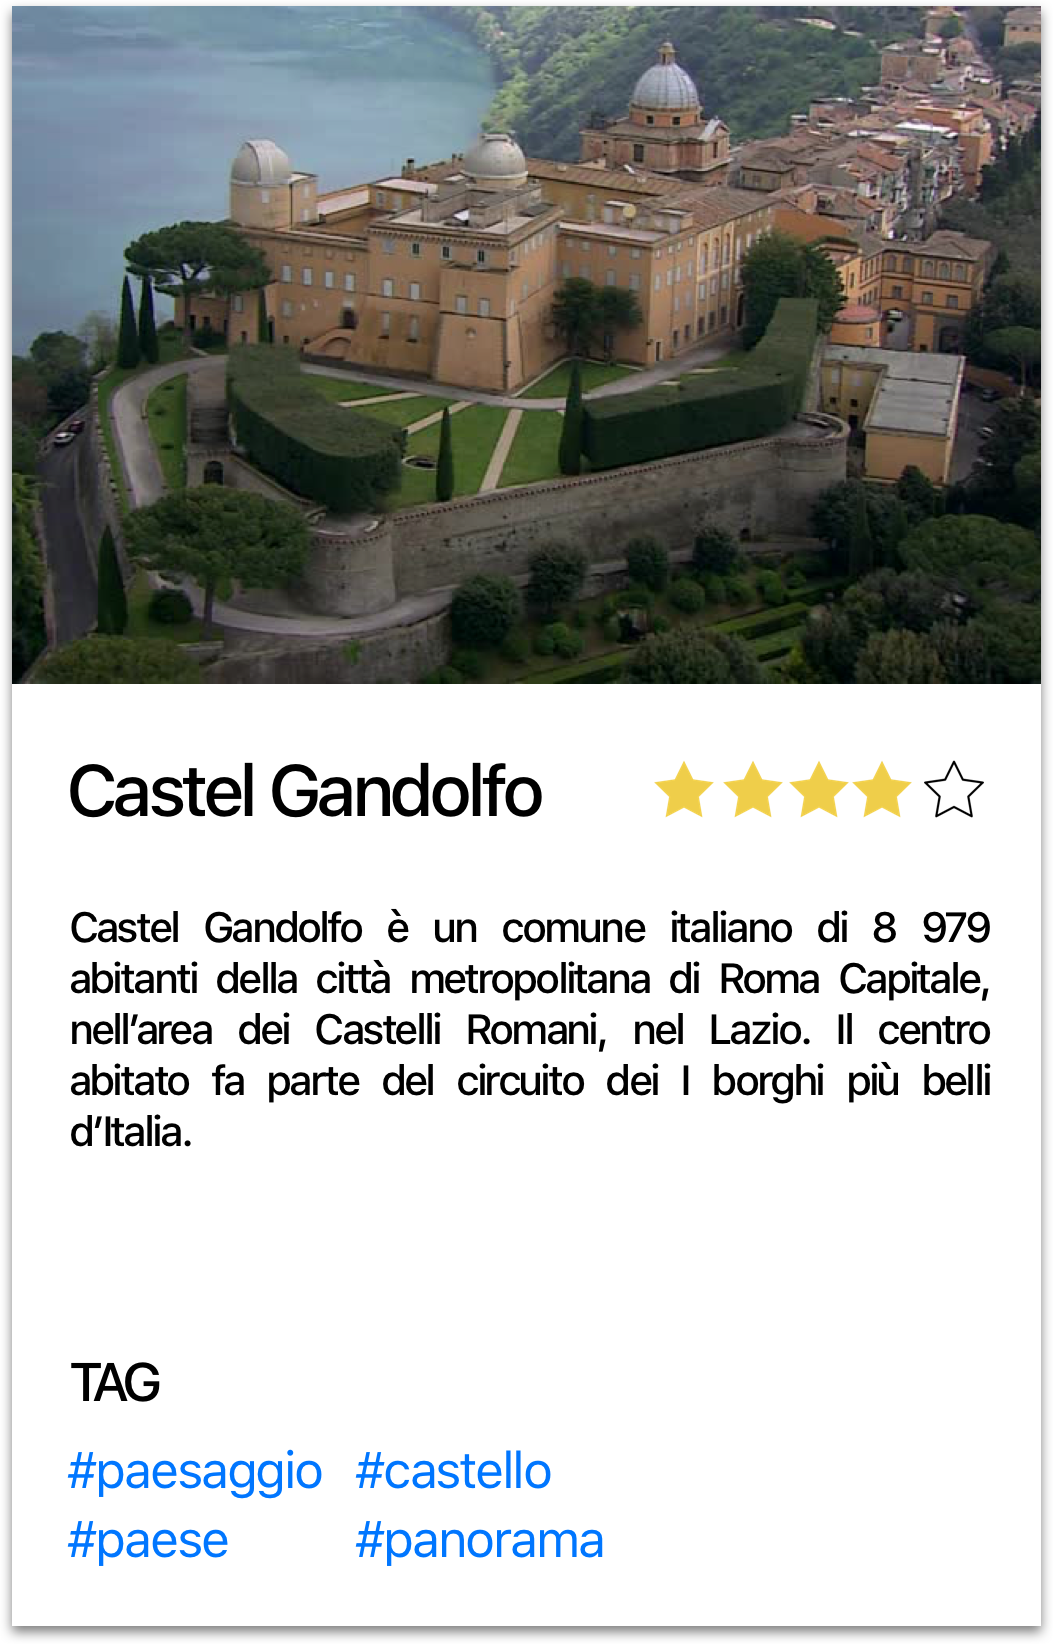
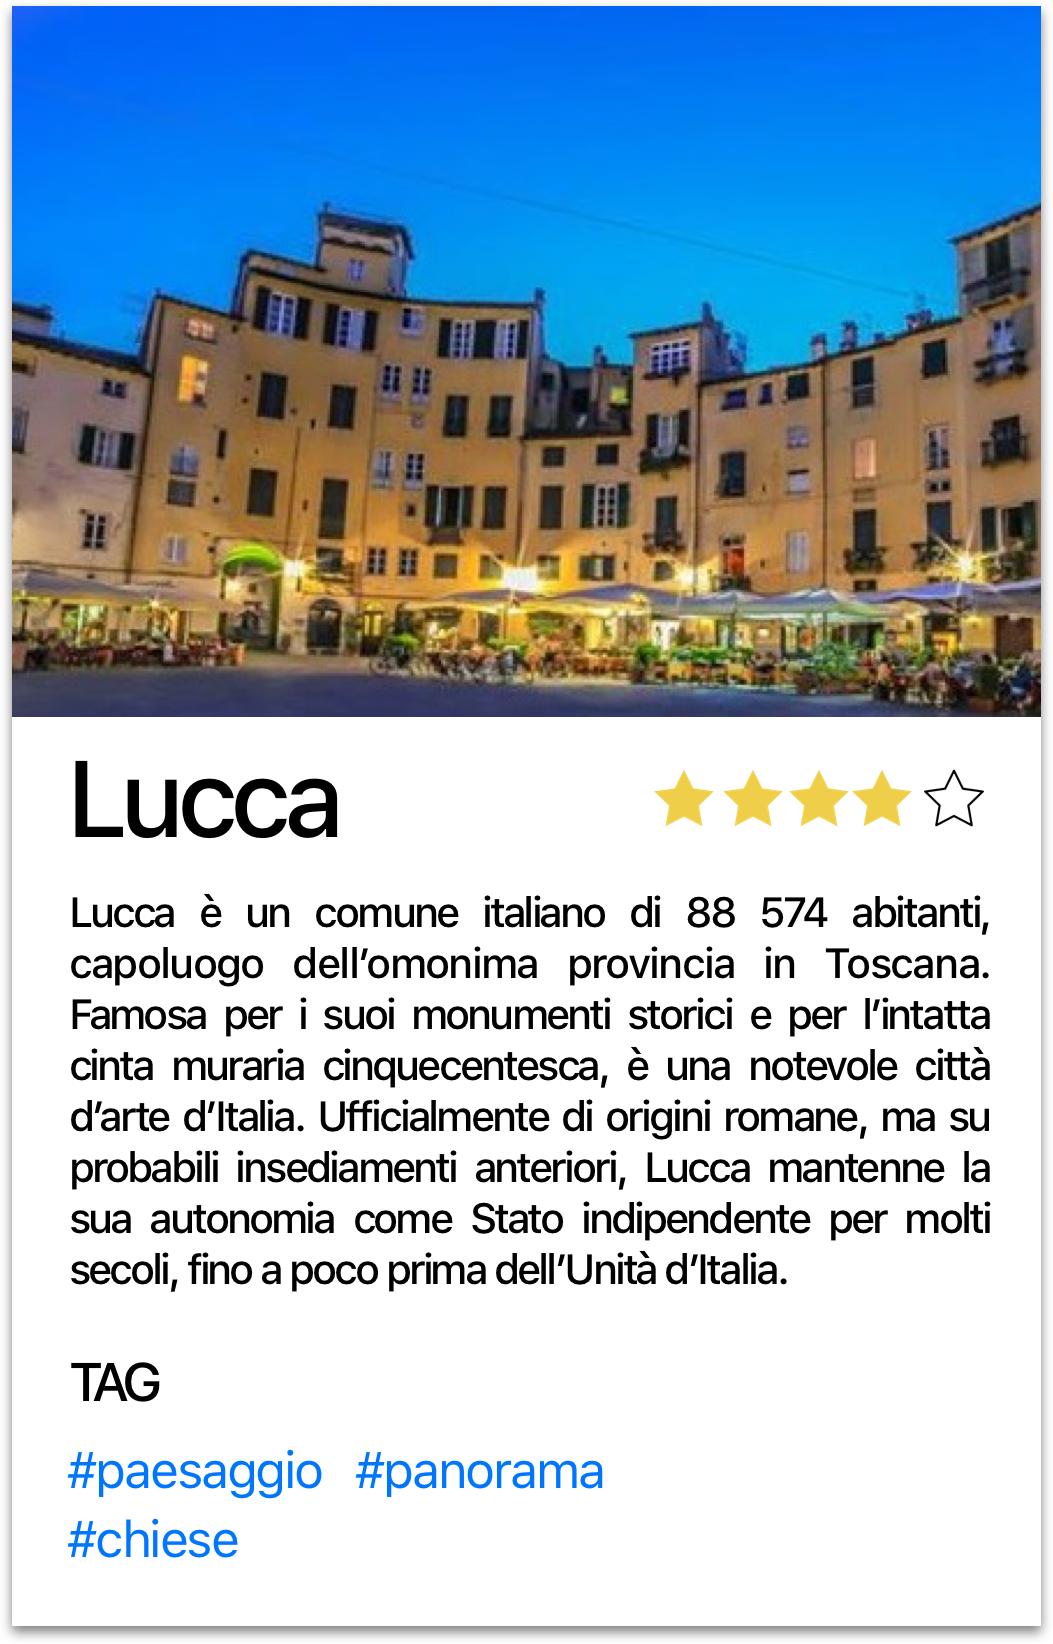
adds pages

diff --git a/HackBiz/ExploreViewController.swift b/HackBiz/ExploreViewController.swift
@@ -9,32 +9,32 @@ class ExploreViewController: UIViewController{
     @IBOutlet weak var kolodaView: KolodaView!
 
     var dataSource: [Place] = {
-        var names = ["Bassiano",
-                     "Castel Gandolfo",
-                     "Fondi",
-                     "Formia",
-                     "Giulianello",
-                     "Itri",
-                     "Nemi",
-                     "Priverno"]
+        var names = ["Seravezza",
+                     "Lucca",
+                     "Castel San Giovanni",
+                     "Siena",
+                     "Grotte di Castro",
+                     "Bassano Romano",
+                     "Anguillara Sabazia",
+                     "Novara"]
 
-        var descriptions = ["BassianoBassianoBassianoBassiano",
-                     "Castel Gandolfo",
-                     "Fondi",
-                     "Formia",
-                     "Giulianello",
-                     "Itri",
-                     "Nemi",
-                     "Priverno"]
+        var descriptions = ["",
+                     "",
+                     "",
+                     "",
+                     "",
+                     "",
+                     "",
+                     ""]
 
-        var links = ["https://it.wikipedia.org/wiki/Bassiano",
-                     "https://it.wikipedia.org/wiki/Castel_Gandolfo",
-                     "https://it.wikipedia.org/wiki/Fondi",
-                     "https://it.wikipedia.org/wiki/Formia",
-                     "https://it.wikipedia.org/wiki/Giulianello",
-                     "https://it.wikipedia.org/wiki/Itri",
-                     "https://it.wikipedia.org/wiki/Nemi",
-                     "https://it.wikipedia.org/wiki/Priverno"]
+        var links = ["https://it.wikipedia.org/wiki/Seravezza",
+                     "https://it.wikipedia.org/wiki/Lucca",
+                     "https://it.wikipedia.org/wiki/Castel_San_Giovanni",
+                     "https://it.wikipedia.org/wiki/Siena",
+                     "https://it.wikipedia.org/wiki/Grotte_di_Castro",
+                     "https://it.wikipedia.org/wiki/Bassano_Romano",
+                     "https://it.wikipedia.org/wiki/Anguillara_Sabazia",
+                     "https://it.wikipedia.org/wiki/Novara"]
 
         var coordinates = [CLLocationCoordinate2D(latitude: 44, longitude: 10.233333),
                                              CLLocationCoordinate2D(latitude: 43.85, longitude: 10.516667),
